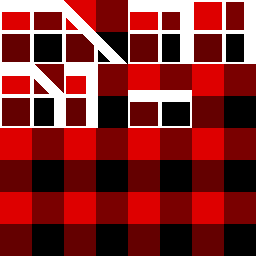
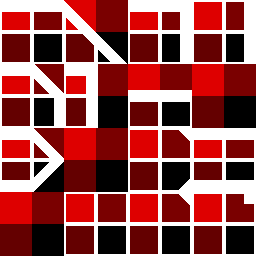
map

Changed region(s): [[0.25, 0.5, 1.0, 1.0], [0.0, 0.5, 0.25, 0.75]]

diff --git a/Assets/Maps/Tiles.tsx b/Assets/Maps/Tiles.tsx
@@ -3,41 +3,73 @@
  <image source="Tiles.png" width="256" height="256"/>
  <tile id="0">
   <objectgroup draworder="index" id="2">
-   <object id="7" x="0" y="0.189237" width="64.1514" height="63.7729"/>
+   <object id="7" x="0" y="0" width="64" height="64"/>
   </objectgroup>
  </tile>
  <tile id="1">
   <objectgroup draworder="index" id="2">
-   <object id="1" x="0.189237" y="0.189237">
+   <object id="1" x="0" y="0">
     <polygon points="0,0 0,64.1514 63.7729,64.1514"/>
    </object>
   </objectgroup>
  </tile>
  <tile id="2">
   <objectgroup draworder="index" id="2">
-   <object id="1" x="0.0946134" y="-0.283848" width="64.1514" height="63.7729"/>
+   <object id="1" x="0" y="0" width="64" height="64"/>
   </objectgroup>
  </tile>
  <tile id="3">
   <objectgroup draworder="index" id="2">
-   <object id="1" x="0.283851" y="0.0946263" width="64.1514" height="63.7729"/>
+   <object id="1" x="0" y="0" width="64" height="64"/>
   </objectgroup>
  </tile>
  <tile id="4">
   <objectgroup draworder="index" id="2">
-   <object id="1" x="34.6304" y="0">
-    <polygon points="0,0 29.3318,29.521 29.3318,63.9622 -34.4412,63.9622 -34.6304,0.189237"/>
+   <object id="1" x="35" y="0">
+    <polygon points="-0.875,-0.375 29.3318,29.521 29.4568,64.4622 -35.0662,64.2122 -35.8122,0.382419"/>
    </object>
   </objectgroup>
  </tile>
  <tile id="5">
   <objectgroup draworder="index" id="2">
-   <object id="1" x="0.662325" y="0.0946263" width="33.495" height="63.7729"/>
+   <object id="1" x="0" y="0" width="34" height="64"/>
   </objectgroup>
  </tile>
  <tile id="6">
   <objectgroup draworder="index" id="2">
-   <object id="1" x="0.283851" y="26.0201" width="64.1514" height="38.2259"/>
+   <object id="1" x="0" y="26" width="64" height="38"/>
+  </objectgroup>
+ </tile>
+ <tile id="8">
+  <objectgroup draworder="index" id="2">
+   <object id="1" x="64.3636" y="30">
+    <polygon points="0,0 0,3.81818 -30.1818,34.1818 -64.1818,34.1818 -64.1818,-29.8182 -30.5455,-30"/>
+   </object>
+  </objectgroup>
+ </tile>
+ <tile id="10">
+  <objectgroup draworder="index" id="2">
+   <object id="1" x="0" y="0" width="64" height="64"/>
+  </objectgroup>
+ </tile>
+ <tile id="11">
+  <objectgroup draworder="index" id="2">
+   <object id="1" x="0" y="0" width="64" height="64"/>
+  </objectgroup>
+ </tile>
+ <tile id="13">
+  <objectgroup draworder="index" id="2">
+   <object id="1" x="0" y="0" width="64" height="64"/>
+  </objectgroup>
+ </tile>
+ <tile id="14">
+  <objectgroup draworder="index" id="2">
+   <object id="1" x="0" y="0" width="64" height="64"/>
+  </objectgroup>
+ </tile>
+ <tile id="15">
+  <objectgroup draworder="index" id="2">
+   <object id="1" x="0" y="0" width="64" height="64"/>
   </objectgroup>
  </tile>
 </tileset>
